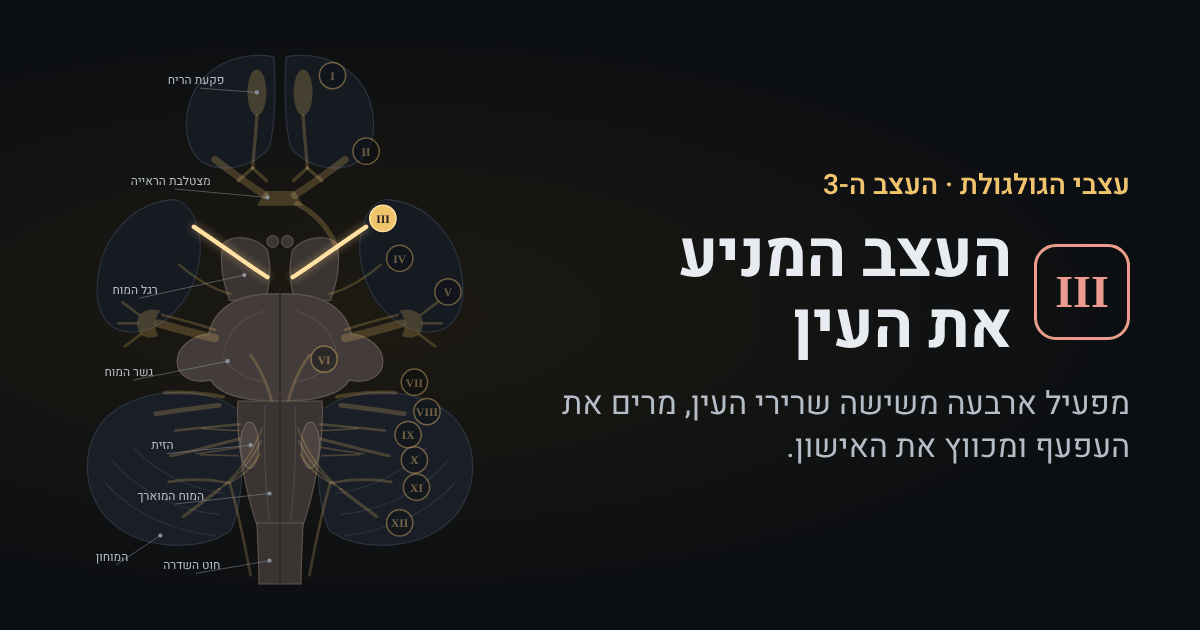
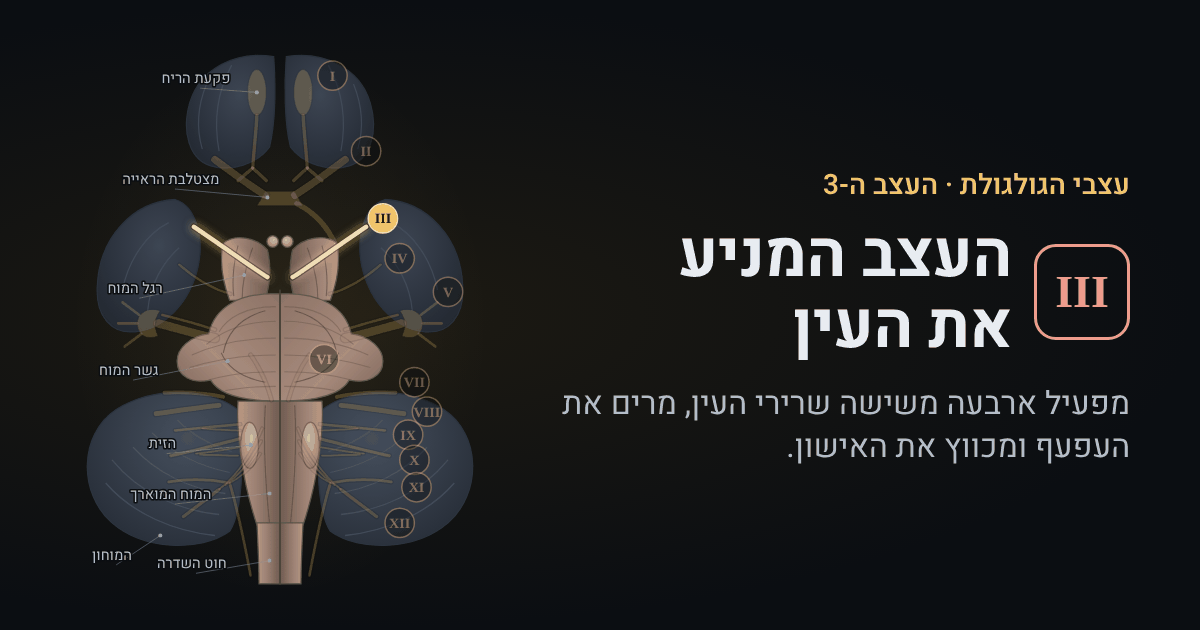
איורים משודרגים: בסיס הגולגולת, מסלול הראייה, גזע המוח ותרשים UMN/LMN; תמונות שיתוף מחודשות
Claude-Session: https://claude.ai/code/session_01WMETiPbN26pKEWaQKbEibQ

Changed region(s): [[0.0617, 0.2714, 0.4008, 0.9349], [0.1233, 0.0905, 0.3083, 0.2714]]

diff --git a/basics.html b/basics.html
@@ -176,10 +176,10 @@
                     <path d="M286 262 C300 252 334 252 346 266 C352 276 344 290 326 292 C306 294 288 286 284 276 C282 270 282 266 286 262 Z" fill="url(#umn-muscle)" stroke="#c98078" stroke-width="1.2"/>
                     <path d="M294 270 C310 266 326 266 340 272 M292 280 C310 276 326 278 340 282" fill="none" stroke="#e0a49c" stroke-width="1" opacity="0.6"/>
                     <!-- תוויות -->
-                    <text class="umn-lbl" x="108" y="106" text-anchor="middle" direction="rtl">נוירון עליון</text>
-                    <text class="umn-sub" x="108" y="122" text-anchor="middle">UMN</text>
-                    <text class="umn-lbl" x="252" y="106" text-anchor="middle" direction="rtl">נוירון עליון</text>
-                    <text class="umn-sub" x="252" y="122" text-anchor="middle">UMN</text>
+                    <text class="umn-lbl" x="74" y="104" text-anchor="middle" direction="rtl">נוירון עליון</text>
+                    <text class="umn-sub" x="74" y="120" text-anchor="middle">UMN</text>
+                    <text class="umn-lbl" x="286" y="104" text-anchor="middle" direction="rtl">נוירון עליון</text>
+                    <text class="umn-sub" x="286" y="120" text-anchor="middle">UMN</text>
                     <text class="umn-lbl" x="122" y="200" text-anchor="middle" direction="rtl">גרעין</text>
                     <text class="umn-sub" x="122" y="216" text-anchor="middle">nucleus</text>
                     <text class="umn-lbl" x="226" y="262" text-anchor="middle" direction="rtl">העצב</text>
